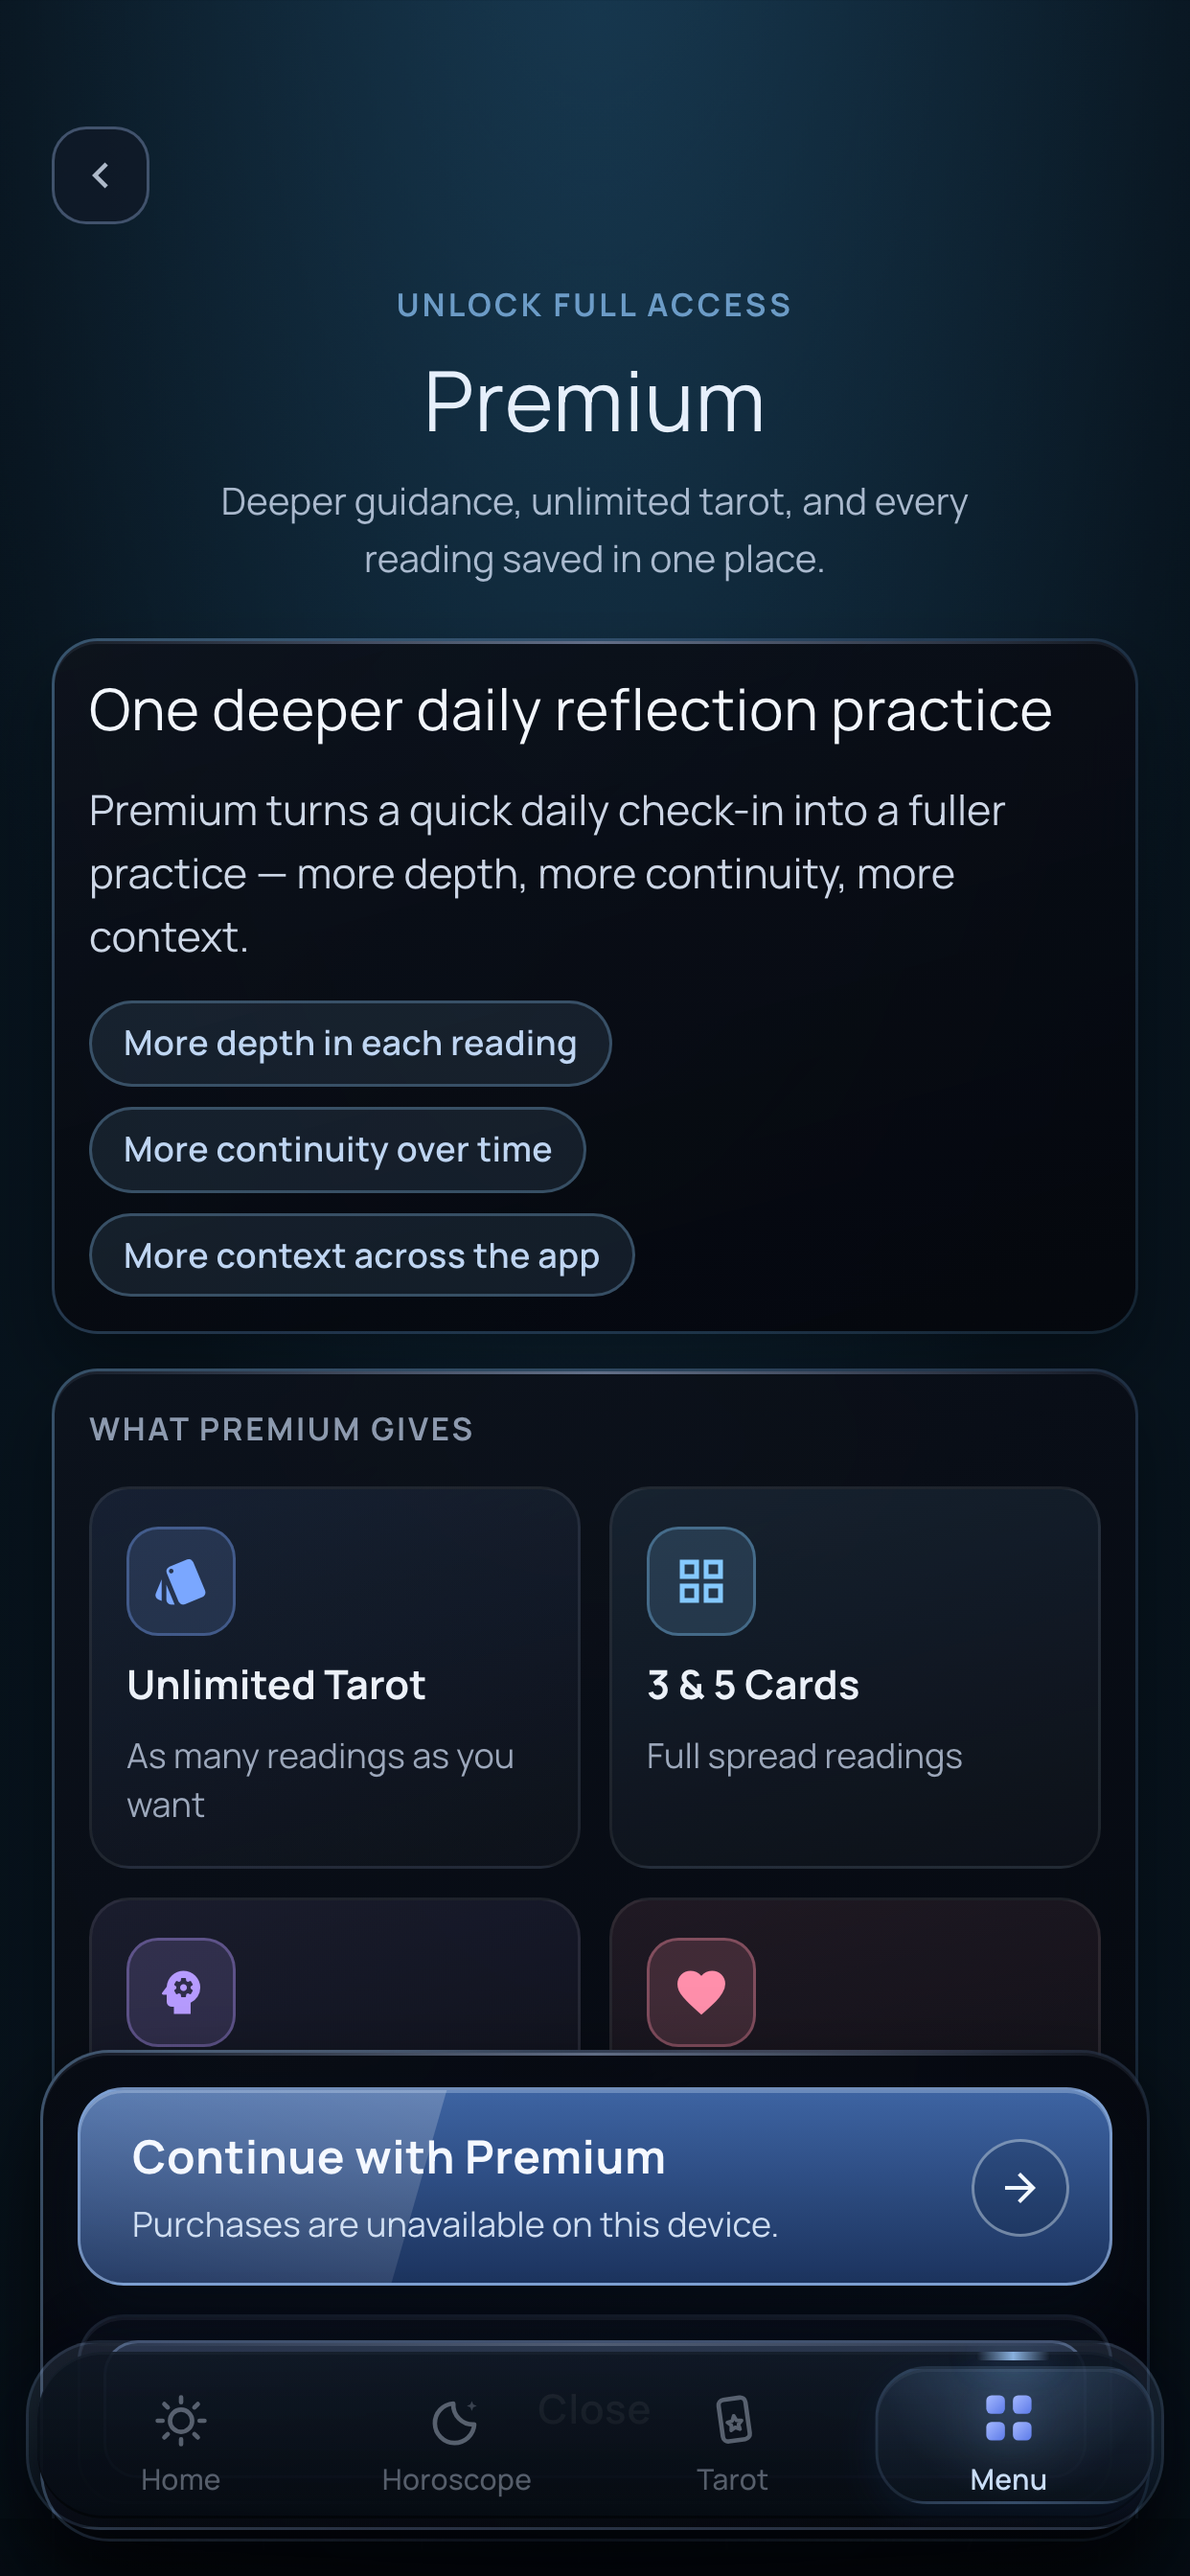
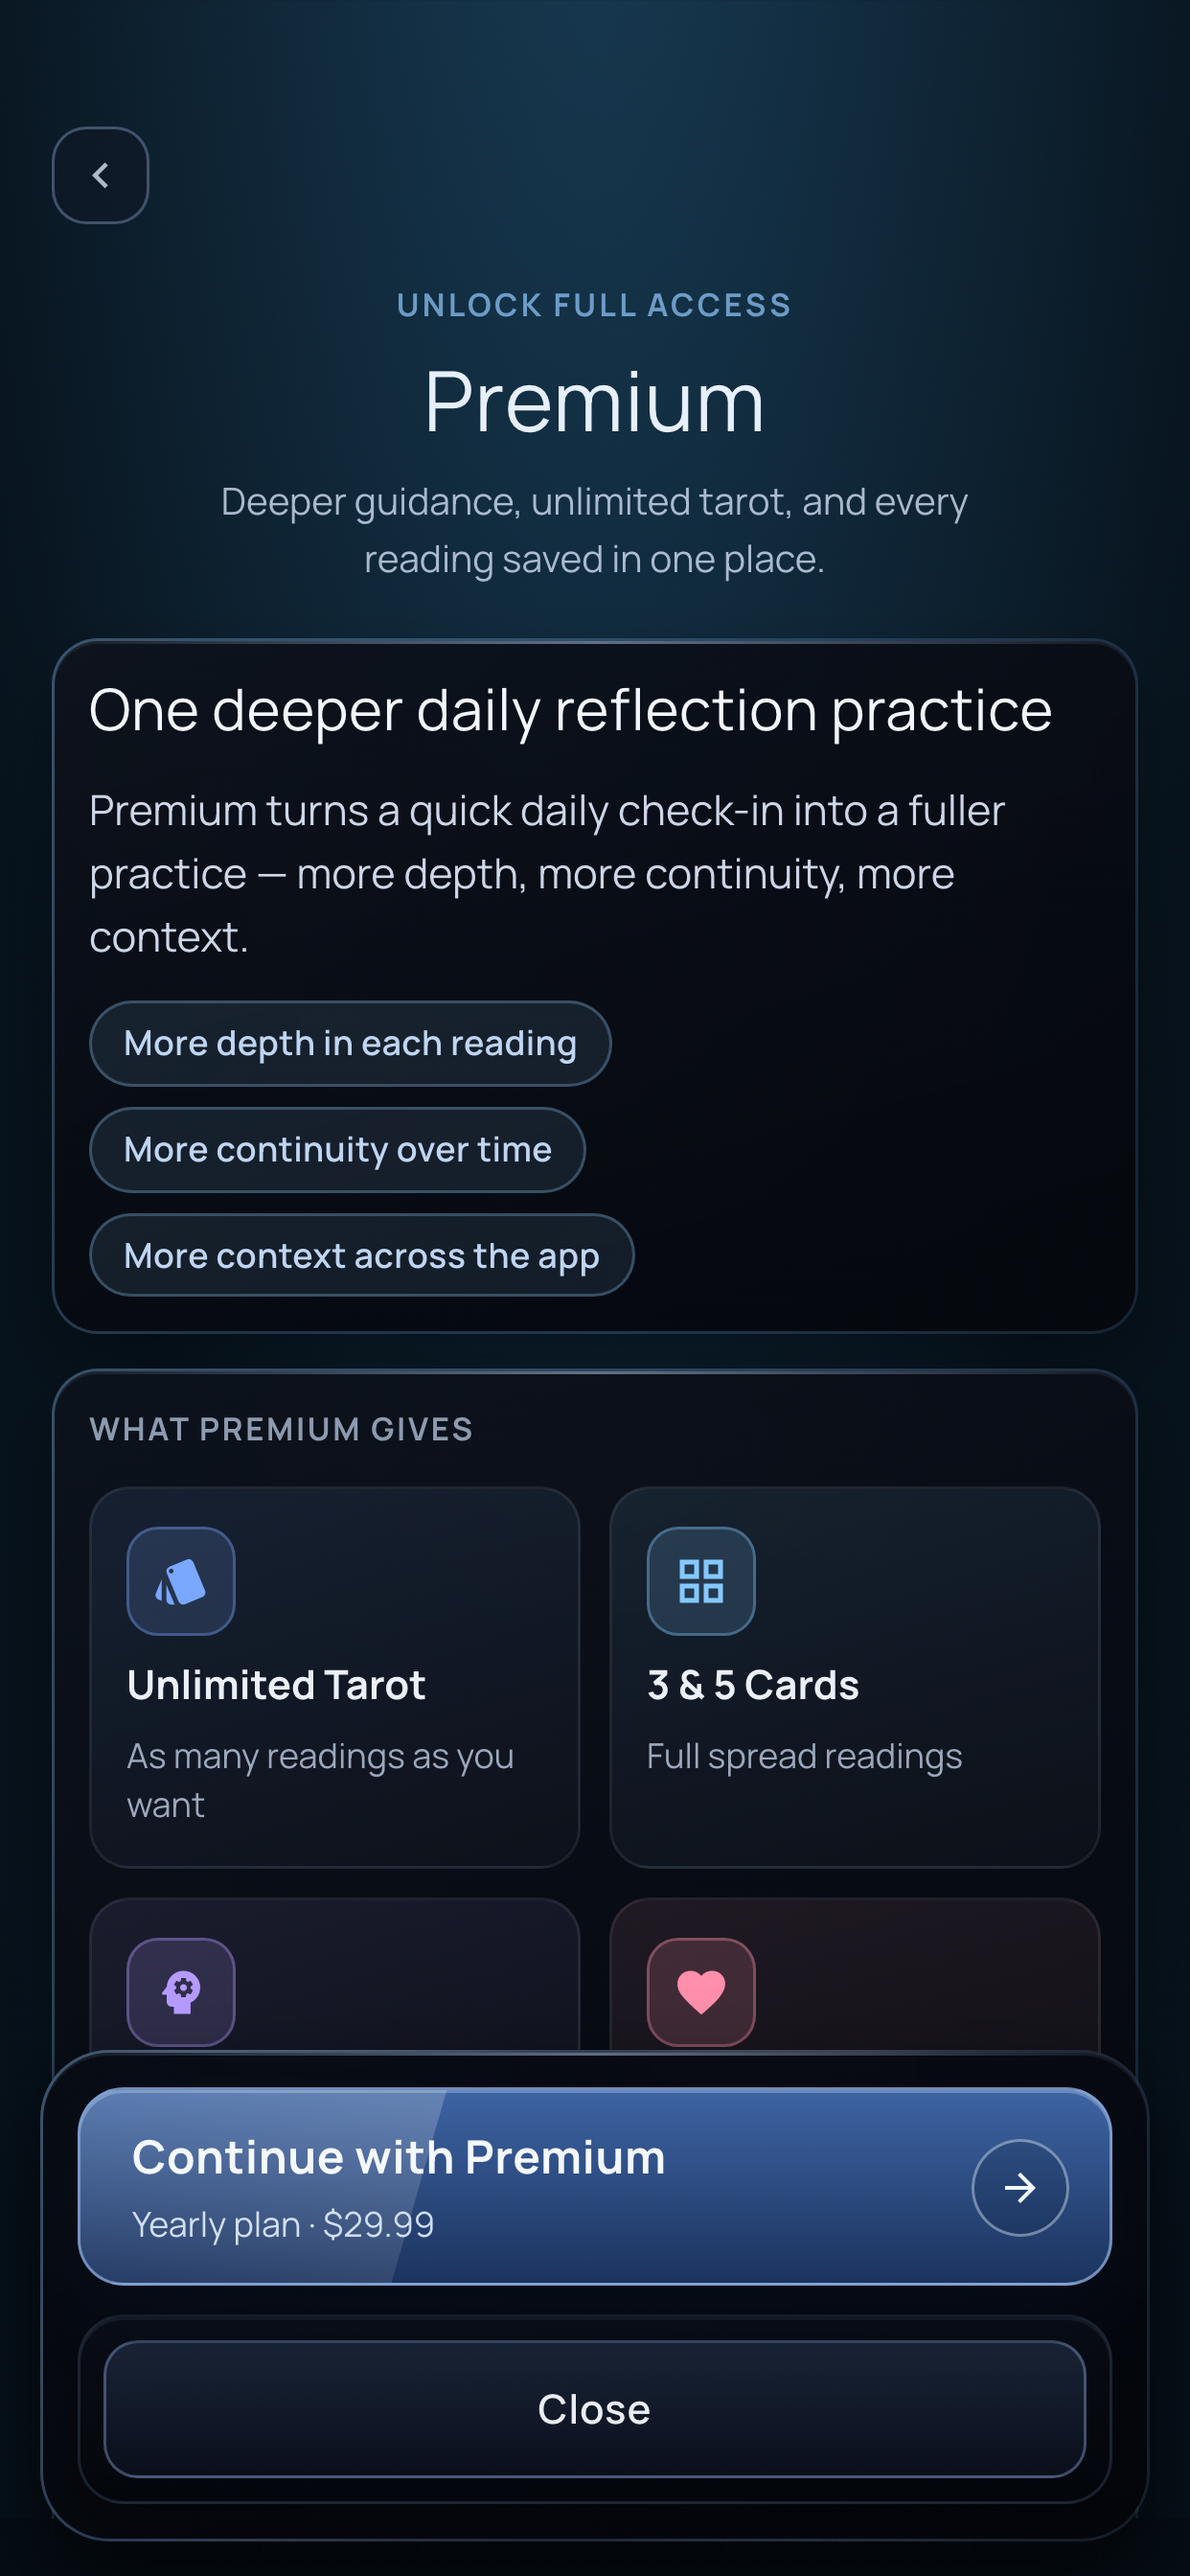
fix(appstore): premium screenshot showed "Purchases are unavailable" — seed prices via ?qa=premium
The store screenshot of /premium was captured in the web build, where
RevenueCat is absent: empty price tiles + the unavailable hint, unusable
for ASC. Added a DEV-only ?qa=premium seed (same gating as ?qa=home) that
fills billingCatalog with the real App Store prices, pointed the generator
at it, and regenerated all 10 screenshots (premium now reads
"Yearly plan · $29.99"). tests 276/276, eslint 0.

diff --git a/src/components/main/PremiumInfoComponent.vue b/src/components/main/PremiumInfoComponent.vue
@@ -669,7 +669,27 @@ watch(premiumPlan, (plan) => {
   }
 })
 
+// DEV-only QA seed (?qa=premium before the hash, e.g. /?qa=premium#/premium):
+// web QA/screenshot runs have no RevenueCat, so the paywall renders the
+// "unavailable" hint and empty prices. Seed the catalog with the real App Store
+// prices so it renders its production look. Same DEV gating as ?qa=home.
+const readPremiumQaSeed = () => {
+  if (!import.meta.env.DEV || typeof window === 'undefined') return null
+  const params = new URLSearchParams(window.location.search || '')
+  if (params.get('qa') !== 'premium') return null
+  return {
+    monthly: { priceLabel: '$2.99', offerLabel: '', freeTrial: null, pricePerMonth: null, currencyCode: 'USD' },
+    yearly: { priceLabel: '$29.99', offerLabel: '', freeTrial: null, pricePerMonth: 29.99 / 12, currencyCode: 'USD' },
+  }
+}
+
 const initializePremiumBillingState = async () => {
+  const qaSeed = readPremiumQaSeed()
+  if (qaSeed) {
+    billingCatalog.value = qaSeed
+    return
+  }
+
   logPaywallEvent(PAYWALL_FUNNEL_EVENTS.paywallView)
 
   // Migration: remove legacy local/test premium state.

diff --git a/tests/visual/appstore-shots.spec.js b/tests/visual/appstore-shots.spec.js
@@ -12,7 +12,9 @@ const SCREENS = [
   { name: '2-tarot', path: '/#/tarot', wait: 9800 },
   { name: '3-horoscope', path: '/#/horoscope', wait: 3000 },
   { name: '4-compatibility', path: '/#/compatibility', wait: 1800 },
-  { name: '5-premium', path: '/#/premium', wait: 1800 },
+  // ?qa=premium (before the hash) seeds real App Store prices — without it the
+  // web build renders "Purchases are unavailable" + empty price tiles.
+  { name: '5-premium', path: '/?qa=premium#/premium', wait: 1800 },
 ]
 
 test('app store screenshots', async ({ browser }) => {
